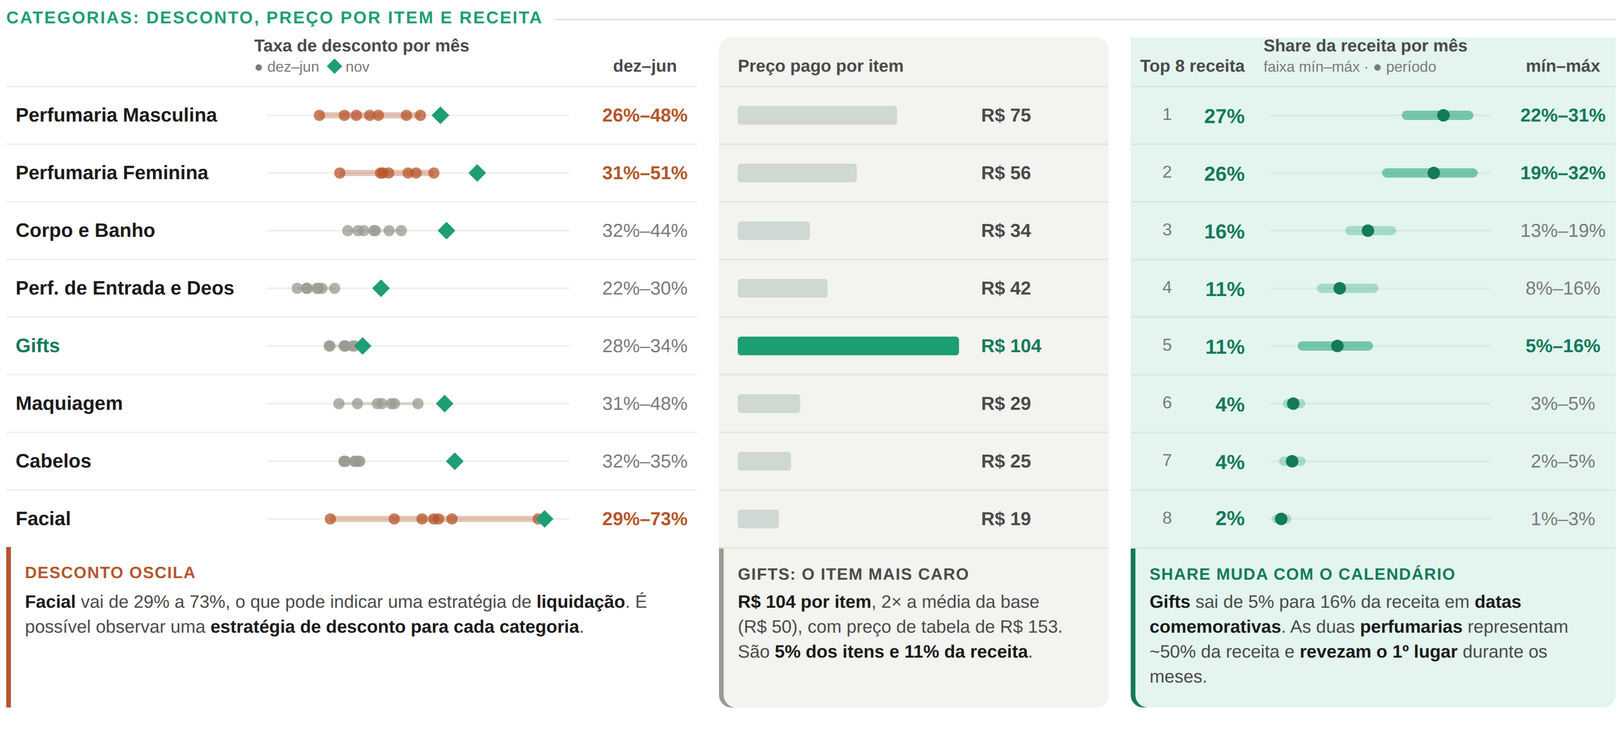
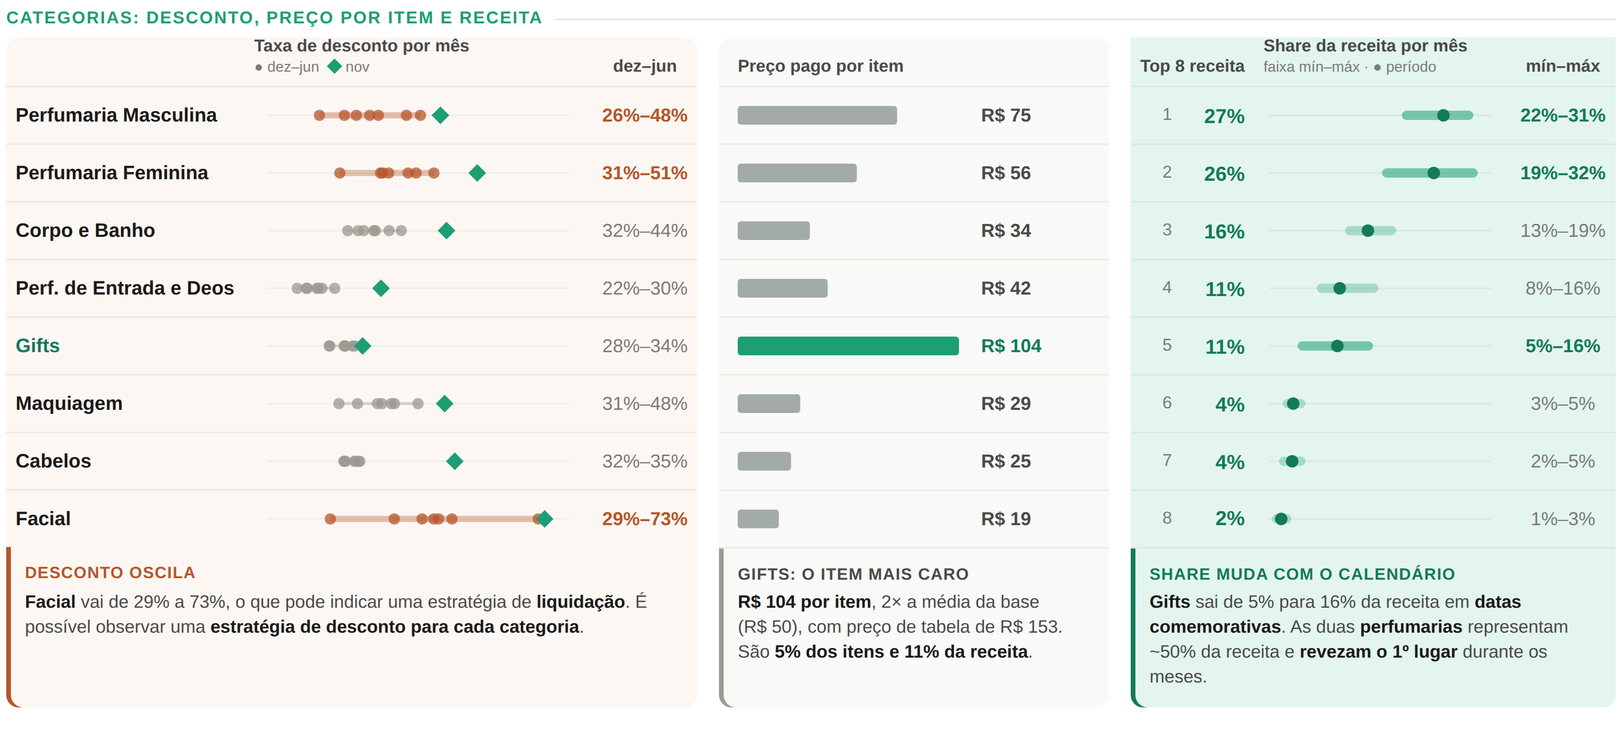
Widget de categorias: fundo nas três zonas, cinza mais discreto e barras com contraste
Claude-Session: https://claude.ai/code/session_01NUJZKTcM8cs9QBTcUeuacF

diff --git a/apresentacao/widgets/04_categorias.html b/apresentacao/widgets/04_categorias.html
@@ -36,12 +36,17 @@
   .forte-s { color: var(--verde-escuro); font-weight: 700; }
   .cats tr:first-child th.lado:first-of-type { border-radius: 8px 0 0 0; }
 
-  .cats th.preco, .cats td.preco { background: #f3f3ef; }
+  .cats tr > :nth-child(-n+3) { background: #fcf7f3; }
+  .cats tr:not(.notas) > td:nth-child(-n+3) { border-top: 1px solid #f3e6dc; }
+  .cats tr:first-child > th:first-child { border-radius: 8px 0 0 0; }
+  .cats tr:first-child > th:nth-child(3) { border-radius: 0 8px 0 0; }
+  .cats tr.notas > td:first-child { border-radius: 0 0 8px 8px; }
+  .cats th.preco, .cats td.preco { background: #f9f9f7; }
   .cats th.preco { width: 250px; border-radius: 8px 8px 0 0; padding-left: 12px; }
   .cats td.preco { padding-left: 12px; }
   .barra b { white-space: nowrap; }
-  .cats .sep { width: 14px; padding: 0; }
-  .cats td.preco { border-top: 1px solid #e6e6df; }
+  .cats .sep { width: 14px; padding: 0; background: none !important; }
+  .cats td.preco { border-top: 1px solid #ececE6; }
   tr.notas td { border-top: none; vertical-align: top; padding: 10px 12px 10px; }
   .nota { font-size: 11.5px; line-height: 1.4; color: var(--tinta-2); }
   .nota b { color: var(--tinta); }
@@ -55,7 +60,7 @@
 <div class="widget">
   <section>
     <div class="rotulo">Categorias: desconto, preço por item e receita</div>
-    <table class="cats"><tr><th></th><th class="esq">Taxa de desconto por mês<span>● dez–jun &nbsp;<i class="losango"></i> nov</span></th><th>dez–jun</th><th class="sep"></th><th class="preco esq">Preço pago por item</th><th class="sep"></th><th class="lado" colspan="2">Top 8 receita</th><th class="lado esq">Share da receita por mês<span>faixa mín–máx · ● período</span></th><th class="lado">mín–máx</th></tr><tr class=""><td class="nome">Perfumaria Masculina</td><td><svg width="210" height="26"><line x1="8" x2="202" y1="13" y2="13" stroke="#eeeeea"/><line x1="41.8" x2="106.6" y1="13" y2="13" stroke="#b5562b" stroke-width="4" stroke-opacity=".35"/><circle cx="74.1" cy="13" r="3.6" fill="#b5562b" fill-opacity=".75"/><circle cx="106.6" cy="13" r="3.6" fill="#b5562b" fill-opacity=".75"/><circle cx="57.8" cy="13" r="3.6" fill="#b5562b" fill-opacity=".75"/><circle cx="97.6" cy="13" r="3.6" fill="#b5562b" fill-opacity=".75"/><circle cx="41.8" cy="13" r="3.6" fill="#b5562b" fill-opacity=".75"/><circle cx="79.6" cy="13" r="3.6" fill="#b5562b" fill-opacity=".75"/><circle cx="65.5" cy="13" r="3.6" fill="#b5562b" fill-opacity=".75"/><rect x="115.4" y="9" width="8" height="8" transform="rotate(45 119.4 13)" fill="#1d9e75"/></svg></td><td class="num"><span class="faixa forte">26%–48%</span></td><td class="sep"></td><td class="preco"><div class="barra"><svg width="150" height="18"><rect x="0" y="3" width="102.2" height="12" rx="2" fill="#cfd8d3"/></svg><b>R$ 75</b></div></td><td class="sep"></td><td class="lado rank">1</td><td class="lado share">27%</td><td class="lado"><svg width="150" height="22"><line x1="4" x2="146" y1="11" y2="11" stroke="#d7e9e1"/><line x1="91.8" x2="131.7" y1="11" y2="11" stroke="#1d9e75" stroke-width="6" stroke-linecap="round" stroke-opacity="0.55"/><circle cx="115.5" cy="11" r="4" fill="#137a5a"/></svg></td><td class="lado num forte-s">22%–31%</td></tr><tr class=""><td class="nome">Perfumaria Feminina</td><td><svg width="210" height="26"><line x1="8" x2="202" y1="13" y2="13" stroke="#eeeeea"/><line x1="54.9" x2="115.2" y1="13" y2="13" stroke="#b5562b" stroke-width="4" stroke-opacity=".35"/><circle cx="103.8" cy="13" r="3.6" fill="#b5562b" fill-opacity=".75"/><circle cx="115.2" cy="13" r="3.6" fill="#b5562b" fill-opacity=".75"/><circle cx="81.0" cy="13" r="3.6" fill="#b5562b" fill-opacity=".75"/><circle cx="86.2" cy="13" r="3.6" fill="#b5562b" fill-opacity=".75"/><circle cx="82.4" cy="13" r="3.6" fill="#b5562b" fill-opacity=".75"/><circle cx="98.7" cy="13" r="3.6" fill="#b5562b" fill-opacity=".75"/><circle cx="54.9" cy="13" r="3.6" fill="#b5562b" fill-opacity=".75"/><rect x="139.0" y="9" width="8" height="8" transform="rotate(45 143.0 13)" fill="#1d9e75"/></svg></td><td class="num"><span class="faixa forte">31%–51%</span></td><td class="sep"></td><td class="preco"><div class="barra"><svg width="150" height="18"><rect x="0" y="3" width="76.4" height="12" rx="2" fill="#cfd8d3"/></svg><b>R$ 56</b></div></td><td class="sep"></td><td class="lado rank">2</td><td class="lado share">26%</td><td class="lado"><svg width="150" height="22"><line x1="4" x2="146" y1="11" y2="11" stroke="#d7e9e1"/><line x1="79.1" x2="134.5" y1="11" y2="11" stroke="#1d9e75" stroke-width="6" stroke-linecap="round" stroke-opacity="0.55"/><circle cx="109.3" cy="11" r="4" fill="#137a5a"/></svg></td><td class="lado num forte-s">19%–32%</td></tr><tr class=""><td class="nome">Corpo e Banho</td><td><svg width="210" height="26"><line x1="8" x2="202" y1="13" y2="13" stroke="#eeeeea"/><line x1="60.0" x2="94.3" y1="13" y2="13" stroke="#9a9a90" stroke-width="2" stroke-opacity=".35"/><circle cx="77.7" cy="13" r="3.6" fill="#9a9a90" fill-opacity=".75"/><circle cx="60.0" cy="13" r="3.6" fill="#9a9a90" fill-opacity=".75"/><circle cx="76.7" cy="13" r="3.6" fill="#9a9a90" fill-opacity=".75"/><circle cx="86.5" cy="13" r="3.6" fill="#9a9a90" fill-opacity=".75"/><circle cx="66.6" cy="13" r="3.6" fill="#9a9a90" fill-opacity=".75"/><circle cx="70.2" cy="13" r="3.6" fill="#9a9a90" fill-opacity=".75"/><circle cx="94.3" cy="13" r="3.6" fill="#9a9a90" fill-opacity=".75"/><rect x="119.3" y="9" width="8" height="8" transform="rotate(45 123.3 13)" fill="#1d9e75"/></svg></td><td class="num"><span class="faixa">32%–44%</span></td><td class="sep"></td><td class="preco"><div class="barra"><svg width="150" height="18"><rect x="0" y="3" width="46.3" height="12" rx="2" fill="#cfd8d3"/></svg><b>R$ 34</b></div></td><td class="sep"></td><td class="lado rank">3</td><td class="lado share">16%</td><td class="lado"><svg width="150" height="22"><line x1="4" x2="146" y1="11" y2="11" stroke="#d7e9e1"/><line x1="55.5" x2="82.2" y1="11" y2="11" stroke="#1d9e75" stroke-width="6" stroke-linecap="round" stroke-opacity="0.3"/><circle cx="67.1" cy="11" r="4" fill="#137a5a"/></svg></td><td class="lado num">13%–19%</td></tr><tr class=""><td class="nome">Perf. de Entrada e Deos</td><td><svg width="210" height="26"><line x1="8" x2="202" y1="13" y2="13" stroke="#eeeeea"/><line x1="27.6" x2="51.6" y1="13" y2="13" stroke="#9a9a90" stroke-width="2" stroke-opacity=".35"/><circle cx="27.6" cy="13" r="3.6" fill="#9a9a90" fill-opacity=".75"/><circle cx="40.2" cy="13" r="3.6" fill="#9a9a90" fill-opacity=".75"/><circle cx="33.5" cy="13" r="3.6" fill="#9a9a90" fill-opacity=".75"/><circle cx="41.2" cy="13" r="3.6" fill="#9a9a90" fill-opacity=".75"/><circle cx="43.4" cy="13" r="3.6" fill="#9a9a90" fill-opacity=".75"/><circle cx="51.6" cy="13" r="3.6" fill="#9a9a90" fill-opacity=".75"/><circle cx="34.0" cy="13" r="3.6" fill="#9a9a90" fill-opacity=".75"/><rect x="77.3" y="9" width="8" height="8" transform="rotate(45 81.3 13)" fill="#1d9e75"/></svg></td><td class="num"><span class="faixa">22%–30%</span></td><td class="sep"></td><td class="preco"><div class="barra"><svg width="150" height="18"><rect x="0" y="3" width="57.7" height="12" rx="2" fill="#cfd8d3"/></svg><b>R$ 42</b></div></td><td class="sep"></td><td class="lado rank">4</td><td class="lado share">11%</td><td class="lado"><svg width="150" height="22"><line x1="4" x2="146" y1="11" y2="11" stroke="#d7e9e1"/><line x1="37.3" x2="70.9" y1="11" y2="11" stroke="#1d9e75" stroke-width="6" stroke-linecap="round" stroke-opacity="0.3"/><circle cx="49.0" cy="11" r="4" fill="#137a5a"/></svg></td><td class="lado num">8%–16%</td></tr><tr class="gift"><td class="nome">Gifts</td><td><svg width="210" height="26"><line x1="8" x2="202" y1="13" y2="13" stroke="#eeeeea"/><line x1="48.1" x2="64.3" y1="13" y2="13" stroke="#9a9a90" stroke-width="2" stroke-opacity=".35"/><circle cx="48.5" cy="13" r="3.6" fill="#9a9a90" fill-opacity=".75"/><circle cx="58.4" cy="13" r="3.6" fill="#9a9a90" fill-opacity=".75"/><circle cx="64.3" cy="13" r="3.6" fill="#9a9a90" fill-opacity=".75"/><circle cx="57.6" cy="13" r="3.6" fill="#9a9a90" fill-opacity=".75"/><circle cx="48.1" cy="13" r="3.6" fill="#9a9a90" fill-opacity=".75"/><circle cx="58.2" cy="13" r="3.6" fill="#9a9a90" fill-opacity=".75"/><circle cx="63.0" cy="13" r="3.6" fill="#9a9a90" fill-opacity=".75"/><rect x="65.5" y="9" width="8" height="8" transform="rotate(45 69.5 13)" fill="#1d9e75"/></svg></td><td class="num"><span class="faixa">28%–34%</span></td><td class="sep"></td><td class="preco"><div class="barra"><svg width="150" height="18"><rect x="0" y="3" width="141.9" height="12" rx="2" fill="#1d9e75"/></svg><b>R$ 104</b></div></td><td class="sep"></td><td class="lado rank">5</td><td class="lado share">11%</td><td class="lado"><svg width="150" height="22"><line x1="4" x2="146" y1="11" y2="11" stroke="#d7e9e1"/><line x1="25.0" x2="67.4" y1="11" y2="11" stroke="#1d9e75" stroke-width="6" stroke-linecap="round" stroke-opacity="0.55"/><circle cx="47.5" cy="11" r="4" fill="#137a5a"/></svg></td><td class="lado num forte-s">5%–16%</td></tr><tr class=""><td class="nome">Maquiagem</td><td><svg width="210" height="26"><line x1="8" x2="202" y1="13" y2="13" stroke="#eeeeea"/><line x1="54.3" x2="105.0" y1="13" y2="13" stroke="#9a9a90" stroke-width="2" stroke-opacity=".35"/><circle cx="66.2" cy="13" r="3.6" fill="#9a9a90" fill-opacity=".75"/><circle cx="54.3" cy="13" r="3.6" fill="#9a9a90" fill-opacity=".75"/><circle cx="89.9" cy="13" r="3.6" fill="#9a9a90" fill-opacity=".75"/><circle cx="105.0" cy="13" r="3.6" fill="#9a9a90" fill-opacity=".75"/><circle cx="87.9" cy="13" r="3.6" fill="#9a9a90" fill-opacity=".75"/><circle cx="79.0" cy="13" r="3.6" fill="#9a9a90" fill-opacity=".75"/><circle cx="81.8" cy="13" r="3.6" fill="#9a9a90" fill-opacity=".75"/><rect x="118.1" y="9" width="8" height="8" transform="rotate(45 122.1 13)" fill="#1d9e75"/></svg></td><td class="num"><span class="faixa">31%–48%</span></td><td class="sep"></td><td class="preco"><div class="barra"><svg width="150" height="18"><rect x="0" y="3" width="40.1" height="12" rx="2" fill="#cfd8d3"/></svg><b>R$ 29</b></div></td><td class="sep"></td><td class="lado rank">6</td><td class="lado share">4%</td><td class="lado"><svg width="150" height="22"><line x1="4" x2="146" y1="11" y2="11" stroke="#d7e9e1"/><line x1="15.5" x2="24.0" y1="11" y2="11" stroke="#1d9e75" stroke-width="6" stroke-linecap="round" stroke-opacity="0.3"/><circle cx="19.2" cy="11" r="4" fill="#137a5a"/></svg></td><td class="lado num">3%–5%</td></tr><tr class=""><td class="nome">Cabelos</td><td><svg width="210" height="26"><line x1="8" x2="202" y1="13" y2="13" stroke="#eeeeea"/><line x1="57.6" x2="67.7" y1="13" y2="13" stroke="#9a9a90" stroke-width="2" stroke-opacity=".35"/><circle cx="66.9" cy="13" r="3.6" fill="#9a9a90" fill-opacity=".75"/><circle cx="58.6" cy="13" r="3.6" fill="#9a9a90" fill-opacity=".75"/><circle cx="57.6" cy="13" r="3.6" fill="#9a9a90" fill-opacity=".75"/><circle cx="64.3" cy="13" r="3.6" fill="#9a9a90" fill-opacity=".75"/><circle cx="57.6" cy="13" r="3.6" fill="#9a9a90" fill-opacity=".75"/><circle cx="67.7" cy="13" r="3.6" fill="#9a9a90" fill-opacity=".75"/><circle cx="64.9" cy="13" r="3.6" fill="#9a9a90" fill-opacity=".75"/><rect x="124.6" y="9" width="8" height="8" transform="rotate(45 128.6 13)" fill="#1d9e75"/></svg></td><td class="num"><span class="faixa">32%–35%</span></td><td class="sep"></td><td class="preco"><div class="barra"><svg width="150" height="18"><rect x="0" y="3" width="34.2" height="12" rx="2" fill="#cfd8d3"/></svg><b>R$ 25</b></div></td><td class="sep"></td><td class="lado rank">7</td><td class="lado share">4%</td><td class="lado"><svg width="150" height="22"><line x1="4" x2="146" y1="11" y2="11" stroke="#d7e9e1"/><line x1="13.1" x2="24.1" y1="11" y2="11" stroke="#1d9e75" stroke-width="6" stroke-linecap="round" stroke-opacity="0.3"/><circle cx="18.5" cy="11" r="4" fill="#137a5a"/></svg></td><td class="lado num">2%–5%</td></tr><tr class=""><td class="nome">Facial</td><td><svg width="210" height="26"><line x1="8" x2="202" y1="13" y2="13" stroke="#eeeeea"/><line x1="48.8" x2="182.1" y1="13" y2="13" stroke="#b5562b" stroke-width="4" stroke-opacity=".35"/><circle cx="115.1" cy="13" r="3.6" fill="#b5562b" fill-opacity=".75"/><circle cx="107.6" cy="13" r="3.6" fill="#b5562b" fill-opacity=".75"/><circle cx="182.1" cy="13" r="3.6" fill="#b5562b" fill-opacity=".75"/><circle cx="126.8" cy="13" r="3.6" fill="#b5562b" fill-opacity=".75"/><circle cx="89.8" cy="13" r="3.6" fill="#b5562b" fill-opacity=".75"/><circle cx="118.2" cy="13" r="3.6" fill="#b5562b" fill-opacity=".75"/><circle cx="48.8" cy="13" r="3.6" fill="#b5562b" fill-opacity=".75"/><rect x="182.2" y="9" width="8" height="8" transform="rotate(45 186.2 13)" fill="#1d9e75"/></svg></td><td class="num"><span class="faixa forte">29%–73%</span></td><td class="sep"></td><td class="preco"><div class="barra"><svg width="150" height="18"><rect x="0" y="3" width="26.4" height="12" rx="2" fill="#cfd8d3"/></svg><b>R$ 19</b></div></td><td class="sep"></td><td class="lado rank">8</td><td class="lado share">2%</td><td class="lado"><svg width="150" height="22"><line x1="4" x2="146" y1="11" y2="11" stroke="#d7e9e1"/><line x1="8.5" x2="15.0" y1="11" y2="11" stroke="#1d9e75" stroke-width="6" stroke-linecap="round" stroke-opacity="0.3"/><circle cx="11.5" cy="11" r="4" fill="#137a5a"/></svg></td><td class="lado num">1%–3%</td></tr><tr class="notas"><td colspan="3" class="nota d"><span class="tit">Desconto oscila</span><b>Facial</b> vai de 29% a 73%, o que pode indicar uma estratégia de <b>liquidação</b>. É possível observar uma <b>estratégia de desconto para cada categoria</b>.</td><td class="sep"></td><td class="preco nota p"><span class="tit">Gifts: o item mais caro</span><b>R$&nbsp;104 por item</b>, 2× a média da base (R$&nbsp;50), com preço de tabela de R$&nbsp;153. São <b>5% dos itens e 11% da receita</b>.</td><td class="sep"></td><td colspan="4" class="lado nota s"><span class="tit">Share muda com o calendário</span><b>Gifts</b> sai de 5% para 16% da receita em <b>datas comemorativas</b>. As duas <b>perfumarias</b> representam ~50% da receita e <b>revezam o 1º lugar</b> durante os meses.</td></tr></table>
+    <table class="cats"><tr><th></th><th class="esq">Taxa de desconto por mês<span>● dez–jun &nbsp;<i class="losango"></i> nov</span></th><th>dez–jun</th><th class="sep"></th><th class="preco esq">Preço pago por item</th><th class="sep"></th><th class="lado" colspan="2">Top 8 receita</th><th class="lado esq">Share da receita por mês<span>faixa mín–máx · ● período</span></th><th class="lado">mín–máx</th></tr><tr class=""><td class="nome">Perfumaria Masculina</td><td><svg width="210" height="26"><line x1="8" x2="202" y1="13" y2="13" stroke="#eeeeea"/><line x1="41.8" x2="106.6" y1="13" y2="13" stroke="#b5562b" stroke-width="4" stroke-opacity=".35"/><circle cx="74.1" cy="13" r="3.6" fill="#b5562b" fill-opacity=".75"/><circle cx="106.6" cy="13" r="3.6" fill="#b5562b" fill-opacity=".75"/><circle cx="57.8" cy="13" r="3.6" fill="#b5562b" fill-opacity=".75"/><circle cx="97.6" cy="13" r="3.6" fill="#b5562b" fill-opacity=".75"/><circle cx="41.8" cy="13" r="3.6" fill="#b5562b" fill-opacity=".75"/><circle cx="79.6" cy="13" r="3.6" fill="#b5562b" fill-opacity=".75"/><circle cx="65.5" cy="13" r="3.6" fill="#b5562b" fill-opacity=".75"/><rect x="115.4" y="9" width="8" height="8" transform="rotate(45 119.4 13)" fill="#1d9e75"/></svg></td><td class="num"><span class="faixa forte">26%–48%</span></td><td class="sep"></td><td class="preco"><div class="barra"><svg width="150" height="18"><rect x="0" y="3" width="102.2" height="12" rx="2" fill="#a3aba7"/></svg><b>R$ 75</b></div></td><td class="sep"></td><td class="lado rank">1</td><td class="lado share">27%</td><td class="lado"><svg width="150" height="22"><line x1="4" x2="146" y1="11" y2="11" stroke="#d7e9e1"/><line x1="91.8" x2="131.7" y1="11" y2="11" stroke="#1d9e75" stroke-width="6" stroke-linecap="round" stroke-opacity="0.55"/><circle cx="115.5" cy="11" r="4" fill="#137a5a"/></svg></td><td class="lado num forte-s">22%–31%</td></tr><tr class=""><td class="nome">Perfumaria Feminina</td><td><svg width="210" height="26"><line x1="8" x2="202" y1="13" y2="13" stroke="#eeeeea"/><line x1="54.9" x2="115.2" y1="13" y2="13" stroke="#b5562b" stroke-width="4" stroke-opacity=".35"/><circle cx="103.8" cy="13" r="3.6" fill="#b5562b" fill-opacity=".75"/><circle cx="115.2" cy="13" r="3.6" fill="#b5562b" fill-opacity=".75"/><circle cx="81.0" cy="13" r="3.6" fill="#b5562b" fill-opacity=".75"/><circle cx="86.2" cy="13" r="3.6" fill="#b5562b" fill-opacity=".75"/><circle cx="82.4" cy="13" r="3.6" fill="#b5562b" fill-opacity=".75"/><circle cx="98.7" cy="13" r="3.6" fill="#b5562b" fill-opacity=".75"/><circle cx="54.9" cy="13" r="3.6" fill="#b5562b" fill-opacity=".75"/><rect x="139.0" y="9" width="8" height="8" transform="rotate(45 143.0 13)" fill="#1d9e75"/></svg></td><td class="num"><span class="faixa forte">31%–51%</span></td><td class="sep"></td><td class="preco"><div class="barra"><svg width="150" height="18"><rect x="0" y="3" width="76.4" height="12" rx="2" fill="#a3aba7"/></svg><b>R$ 56</b></div></td><td class="sep"></td><td class="lado rank">2</td><td class="lado share">26%</td><td class="lado"><svg width="150" height="22"><line x1="4" x2="146" y1="11" y2="11" stroke="#d7e9e1"/><line x1="79.1" x2="134.5" y1="11" y2="11" stroke="#1d9e75" stroke-width="6" stroke-linecap="round" stroke-opacity="0.55"/><circle cx="109.3" cy="11" r="4" fill="#137a5a"/></svg></td><td class="lado num forte-s">19%–32%</td></tr><tr class=""><td class="nome">Corpo e Banho</td><td><svg width="210" height="26"><line x1="8" x2="202" y1="13" y2="13" stroke="#eeeeea"/><line x1="60.0" x2="94.3" y1="13" y2="13" stroke="#9a9a90" stroke-width="2" stroke-opacity=".35"/><circle cx="77.7" cy="13" r="3.6" fill="#9a9a90" fill-opacity=".75"/><circle cx="60.0" cy="13" r="3.6" fill="#9a9a90" fill-opacity=".75"/><circle cx="76.7" cy="13" r="3.6" fill="#9a9a90" fill-opacity=".75"/><circle cx="86.5" cy="13" r="3.6" fill="#9a9a90" fill-opacity=".75"/><circle cx="66.6" cy="13" r="3.6" fill="#9a9a90" fill-opacity=".75"/><circle cx="70.2" cy="13" r="3.6" fill="#9a9a90" fill-opacity=".75"/><circle cx="94.3" cy="13" r="3.6" fill="#9a9a90" fill-opacity=".75"/><rect x="119.3" y="9" width="8" height="8" transform="rotate(45 123.3 13)" fill="#1d9e75"/></svg></td><td class="num"><span class="faixa">32%–44%</span></td><td class="sep"></td><td class="preco"><div class="barra"><svg width="150" height="18"><rect x="0" y="3" width="46.3" height="12" rx="2" fill="#a3aba7"/></svg><b>R$ 34</b></div></td><td class="sep"></td><td class="lado rank">3</td><td class="lado share">16%</td><td class="lado"><svg width="150" height="22"><line x1="4" x2="146" y1="11" y2="11" stroke="#d7e9e1"/><line x1="55.5" x2="82.2" y1="11" y2="11" stroke="#1d9e75" stroke-width="6" stroke-linecap="round" stroke-opacity="0.3"/><circle cx="67.1" cy="11" r="4" fill="#137a5a"/></svg></td><td class="lado num">13%–19%</td></tr><tr class=""><td class="nome">Perf. de Entrada e Deos</td><td><svg width="210" height="26"><line x1="8" x2="202" y1="13" y2="13" stroke="#eeeeea"/><line x1="27.6" x2="51.6" y1="13" y2="13" stroke="#9a9a90" stroke-width="2" stroke-opacity=".35"/><circle cx="27.6" cy="13" r="3.6" fill="#9a9a90" fill-opacity=".75"/><circle cx="40.2" cy="13" r="3.6" fill="#9a9a90" fill-opacity=".75"/><circle cx="33.5" cy="13" r="3.6" fill="#9a9a90" fill-opacity=".75"/><circle cx="41.2" cy="13" r="3.6" fill="#9a9a90" fill-opacity=".75"/><circle cx="43.4" cy="13" r="3.6" fill="#9a9a90" fill-opacity=".75"/><circle cx="51.6" cy="13" r="3.6" fill="#9a9a90" fill-opacity=".75"/><circle cx="34.0" cy="13" r="3.6" fill="#9a9a90" fill-opacity=".75"/><rect x="77.3" y="9" width="8" height="8" transform="rotate(45 81.3 13)" fill="#1d9e75"/></svg></td><td class="num"><span class="faixa">22%–30%</span></td><td class="sep"></td><td class="preco"><div class="barra"><svg width="150" height="18"><rect x="0" y="3" width="57.7" height="12" rx="2" fill="#a3aba7"/></svg><b>R$ 42</b></div></td><td class="sep"></td><td class="lado rank">4</td><td class="lado share">11%</td><td class="lado"><svg width="150" height="22"><line x1="4" x2="146" y1="11" y2="11" stroke="#d7e9e1"/><line x1="37.3" x2="70.9" y1="11" y2="11" stroke="#1d9e75" stroke-width="6" stroke-linecap="round" stroke-opacity="0.3"/><circle cx="49.0" cy="11" r="4" fill="#137a5a"/></svg></td><td class="lado num">8%–16%</td></tr><tr class="gift"><td class="nome">Gifts</td><td><svg width="210" height="26"><line x1="8" x2="202" y1="13" y2="13" stroke="#eeeeea"/><line x1="48.1" x2="64.3" y1="13" y2="13" stroke="#9a9a90" stroke-width="2" stroke-opacity=".35"/><circle cx="48.5" cy="13" r="3.6" fill="#9a9a90" fill-opacity=".75"/><circle cx="58.4" cy="13" r="3.6" fill="#9a9a90" fill-opacity=".75"/><circle cx="64.3" cy="13" r="3.6" fill="#9a9a90" fill-opacity=".75"/><circle cx="57.6" cy="13" r="3.6" fill="#9a9a90" fill-opacity=".75"/><circle cx="48.1" cy="13" r="3.6" fill="#9a9a90" fill-opacity=".75"/><circle cx="58.2" cy="13" r="3.6" fill="#9a9a90" fill-opacity=".75"/><circle cx="63.0" cy="13" r="3.6" fill="#9a9a90" fill-opacity=".75"/><rect x="65.5" y="9" width="8" height="8" transform="rotate(45 69.5 13)" fill="#1d9e75"/></svg></td><td class="num"><span class="faixa">28%–34%</span></td><td class="sep"></td><td class="preco"><div class="barra"><svg width="150" height="18"><rect x="0" y="3" width="141.9" height="12" rx="2" fill="#1d9e75"/></svg><b>R$ 104</b></div></td><td class="sep"></td><td class="lado rank">5</td><td class="lado share">11%</td><td class="lado"><svg width="150" height="22"><line x1="4" x2="146" y1="11" y2="11" stroke="#d7e9e1"/><line x1="25.0" x2="67.4" y1="11" y2="11" stroke="#1d9e75" stroke-width="6" stroke-linecap="round" stroke-opacity="0.55"/><circle cx="47.5" cy="11" r="4" fill="#137a5a"/></svg></td><td class="lado num forte-s">5%–16%</td></tr><tr class=""><td class="nome">Maquiagem</td><td><svg width="210" height="26"><line x1="8" x2="202" y1="13" y2="13" stroke="#eeeeea"/><line x1="54.3" x2="105.0" y1="13" y2="13" stroke="#9a9a90" stroke-width="2" stroke-opacity=".35"/><circle cx="66.2" cy="13" r="3.6" fill="#9a9a90" fill-opacity=".75"/><circle cx="54.3" cy="13" r="3.6" fill="#9a9a90" fill-opacity=".75"/><circle cx="89.9" cy="13" r="3.6" fill="#9a9a90" fill-opacity=".75"/><circle cx="105.0" cy="13" r="3.6" fill="#9a9a90" fill-opacity=".75"/><circle cx="87.9" cy="13" r="3.6" fill="#9a9a90" fill-opacity=".75"/><circle cx="79.0" cy="13" r="3.6" fill="#9a9a90" fill-opacity=".75"/><circle cx="81.8" cy="13" r="3.6" fill="#9a9a90" fill-opacity=".75"/><rect x="118.1" y="9" width="8" height="8" transform="rotate(45 122.1 13)" fill="#1d9e75"/></svg></td><td class="num"><span class="faixa">31%–48%</span></td><td class="sep"></td><td class="preco"><div class="barra"><svg width="150" height="18"><rect x="0" y="3" width="40.1" height="12" rx="2" fill="#a3aba7"/></svg><b>R$ 29</b></div></td><td class="sep"></td><td class="lado rank">6</td><td class="lado share">4%</td><td class="lado"><svg width="150" height="22"><line x1="4" x2="146" y1="11" y2="11" stroke="#d7e9e1"/><line x1="15.5" x2="24.0" y1="11" y2="11" stroke="#1d9e75" stroke-width="6" stroke-linecap="round" stroke-opacity="0.3"/><circle cx="19.2" cy="11" r="4" fill="#137a5a"/></svg></td><td class="lado num">3%–5%</td></tr><tr class=""><td class="nome">Cabelos</td><td><svg width="210" height="26"><line x1="8" x2="202" y1="13" y2="13" stroke="#eeeeea"/><line x1="57.6" x2="67.7" y1="13" y2="13" stroke="#9a9a90" stroke-width="2" stroke-opacity=".35"/><circle cx="66.9" cy="13" r="3.6" fill="#9a9a90" fill-opacity=".75"/><circle cx="58.6" cy="13" r="3.6" fill="#9a9a90" fill-opacity=".75"/><circle cx="57.6" cy="13" r="3.6" fill="#9a9a90" fill-opacity=".75"/><circle cx="64.3" cy="13" r="3.6" fill="#9a9a90" fill-opacity=".75"/><circle cx="57.6" cy="13" r="3.6" fill="#9a9a90" fill-opacity=".75"/><circle cx="67.7" cy="13" r="3.6" fill="#9a9a90" fill-opacity=".75"/><circle cx="64.9" cy="13" r="3.6" fill="#9a9a90" fill-opacity=".75"/><rect x="124.6" y="9" width="8" height="8" transform="rotate(45 128.6 13)" fill="#1d9e75"/></svg></td><td class="num"><span class="faixa">32%–35%</span></td><td class="sep"></td><td class="preco"><div class="barra"><svg width="150" height="18"><rect x="0" y="3" width="34.2" height="12" rx="2" fill="#a3aba7"/></svg><b>R$ 25</b></div></td><td class="sep"></td><td class="lado rank">7</td><td class="lado share">4%</td><td class="lado"><svg width="150" height="22"><line x1="4" x2="146" y1="11" y2="11" stroke="#d7e9e1"/><line x1="13.1" x2="24.1" y1="11" y2="11" stroke="#1d9e75" stroke-width="6" stroke-linecap="round" stroke-opacity="0.3"/><circle cx="18.5" cy="11" r="4" fill="#137a5a"/></svg></td><td class="lado num">2%–5%</td></tr><tr class=""><td class="nome">Facial</td><td><svg width="210" height="26"><line x1="8" x2="202" y1="13" y2="13" stroke="#eeeeea"/><line x1="48.8" x2="182.1" y1="13" y2="13" stroke="#b5562b" stroke-width="4" stroke-opacity=".35"/><circle cx="115.1" cy="13" r="3.6" fill="#b5562b" fill-opacity=".75"/><circle cx="107.6" cy="13" r="3.6" fill="#b5562b" fill-opacity=".75"/><circle cx="182.1" cy="13" r="3.6" fill="#b5562b" fill-opacity=".75"/><circle cx="126.8" cy="13" r="3.6" fill="#b5562b" fill-opacity=".75"/><circle cx="89.8" cy="13" r="3.6" fill="#b5562b" fill-opacity=".75"/><circle cx="118.2" cy="13" r="3.6" fill="#b5562b" fill-opacity=".75"/><circle cx="48.8" cy="13" r="3.6" fill="#b5562b" fill-opacity=".75"/><rect x="182.2" y="9" width="8" height="8" transform="rotate(45 186.2 13)" fill="#1d9e75"/></svg></td><td class="num"><span class="faixa forte">29%–73%</span></td><td class="sep"></td><td class="preco"><div class="barra"><svg width="150" height="18"><rect x="0" y="3" width="26.4" height="12" rx="2" fill="#a3aba7"/></svg><b>R$ 19</b></div></td><td class="sep"></td><td class="lado rank">8</td><td class="lado share">2%</td><td class="lado"><svg width="150" height="22"><line x1="4" x2="146" y1="11" y2="11" stroke="#d7e9e1"/><line x1="8.5" x2="15.0" y1="11" y2="11" stroke="#1d9e75" stroke-width="6" stroke-linecap="round" stroke-opacity="0.3"/><circle cx="11.5" cy="11" r="4" fill="#137a5a"/></svg></td><td class="lado num">1%–3%</td></tr><tr class="notas"><td colspan="3" class="nota d"><span class="tit">Desconto oscila</span><b>Facial</b> vai de 29% a 73%, o que pode indicar uma estratégia de <b>liquidação</b>. É possível observar uma <b>estratégia de desconto para cada categoria</b>.</td><td class="sep"></td><td class="preco nota p"><span class="tit">Gifts: o item mais caro</span><b>R$&nbsp;104 por item</b>, 2× a média da base (R$&nbsp;50), com preço de tabela de R$&nbsp;153. São <b>5% dos itens e 11% da receita</b>.</td><td class="sep"></td><td colspan="4" class="lado nota s"><span class="tit">Share muda com o calendário</span><b>Gifts</b> sai de 5% para 16% da receita em <b>datas comemorativas</b>. As duas <b>perfumarias</b> representam ~50% da receita e <b>revezam o 1º lugar</b> durante os meses.</td></tr></table>
   </section>
   <template>
 <!--NOTA_DESCONTO--><span class="tit">Desconto oscila</span><b>Facial</b> vai de 29% a 73%, o que pode indicar uma estratégia de <b>liquidação</b>. É possível observar uma <b>estratégia de desconto para cada categoria</b>.<!--/NOTA_DESCONTO-->

diff --git a/apresentacao/geradores/04_categorias_modelo.html b/apresentacao/geradores/04_categorias_modelo.html
@@ -36,12 +36,17 @@
   .forte-s { color: var(--verde-escuro); font-weight: 700; }
   .cats tr:first-child th.lado:first-of-type { border-radius: 8px 0 0 0; }
 
-  .cats th.preco, .cats td.preco { background: #f3f3ef; }
+  .cats tr > :nth-child(-n+3) { background: #fcf7f3; }
+  .cats tr:not(.notas) > td:nth-child(-n+3) { border-top: 1px solid #f3e6dc; }
+  .cats tr:first-child > th:first-child { border-radius: 8px 0 0 0; }
+  .cats tr:first-child > th:nth-child(3) { border-radius: 0 8px 0 0; }
+  .cats tr.notas > td:first-child { border-radius: 0 0 8px 8px; }
+  .cats th.preco, .cats td.preco { background: #f9f9f7; }
   .cats th.preco { width: 250px; border-radius: 8px 8px 0 0; padding-left: 12px; }
   .cats td.preco { padding-left: 12px; }
   .barra b { white-space: nowrap; }
-  .cats .sep { width: 14px; padding: 0; }
-  .cats td.preco { border-top: 1px solid #e6e6df; }
+  .cats .sep { width: 14px; padding: 0; background: none !important; }
+  .cats td.preco { border-top: 1px solid #ececE6; }
   tr.notas td { border-top: none; vertical-align: top; padding: 10px 12px 10px; }
   .nota { font-size: 11.5px; line-height: 1.4; color: var(--tinta-2); }
   .nota b { color: var(--tinta); }

diff --git a/apresentacao/geradores/04_categorias.py b/apresentacao/geradores/04_categorias.py
@@ -50,7 +50,7 @@ for i, (c, t) in enumerate(tot.iterrows(), 1):
 
     gift = c == "GIFTS"
     svg_p = (f'<svg width="{PW}" height="18"><rect x="0" y="3" width="{t["pago"] / pmax * PW:.1f}" height="12" rx="2" '
-             f'fill="{"#1d9e75" if gift else "#cfd8d3"}"/></svg>')
+             f'fill="{"#1d9e75" if gift else "#a3aba7"}"/></svg>')
 
     slo, shi = mc["sh"].min(), mc["sh"].max()
     larga = shi - slo >= 0.09
